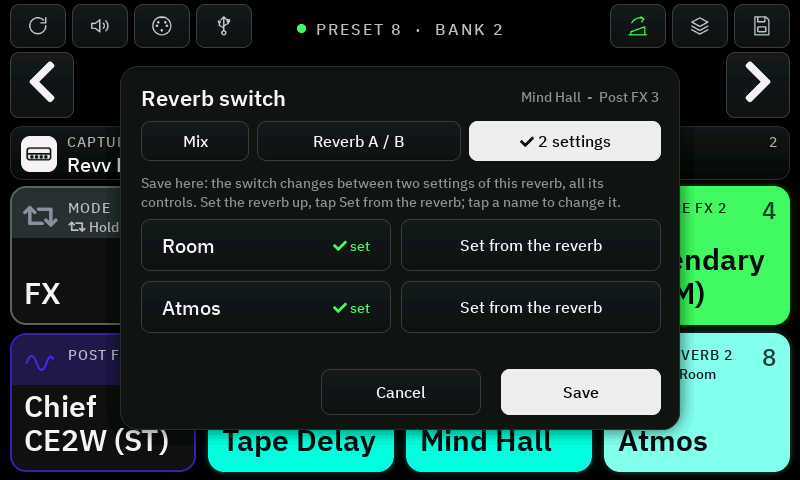
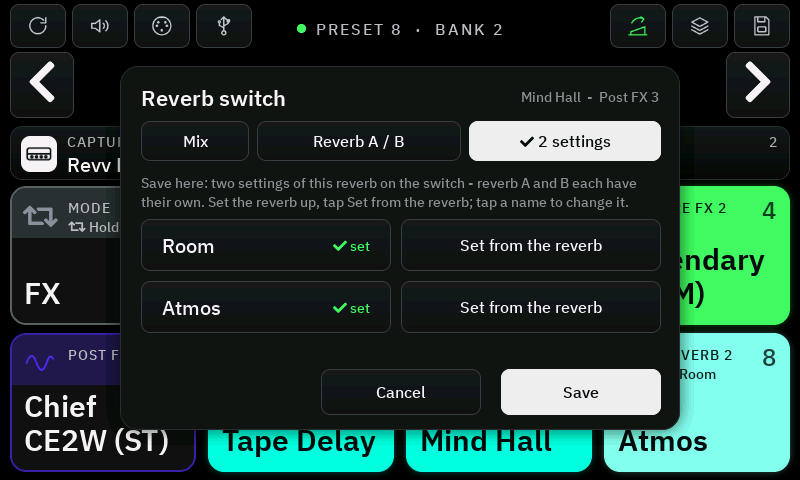
Reverb switch: each reverb of the preset (A and B) has its own two settings
The settings are kept per reverb model in two places per preset (rvp / rvq), so the second
reverb of the reverb's tile gets its own pair. Stored compactly (head + the values that are
set); the first 1.14 layout is still read.

Built, not yet run on the board.

Changed region(s): [[0.1562, 0.375, 0.8125, 0.4375]]

diff --git a/main/main.c b/main/main.c
@@ -374,7 +374,10 @@ static esp_timer_handle_t s_fxp_timer;
 // reverb - "Room" and "Atmos", every parameter - that the switch changes between. Each is what the reverb was set to
 // when "Set from the reverb" was tapped in the reverb dialog; stored on the controller, per preset. They are their
 // own thing: the second effect (A / B) of the reverb's slot is not touched and stays on the reverb's own tile.
-#define RP_STORE_KEY "rvp%02d"
+// The preset's reverb and the second one of the reverb's tile (B) each have their own two: RP_PAIRS places per
+// preset, each for one reverb model.
+#define RP_PAIRS 2
+static const char *const RP_STORE_KEYS[RP_PAIRS] = { "rvp%02d", "rvq%02d" };
 typedef struct {
     uint32_t type;                       // the reverb model the settings are for: they count while it is in the slot
     uint8_t used;                        // 1 = the reverb switch changes between them
@@ -382,11 +385,12 @@ typedef struct {
     uint8_t reserved;
     char name[2][16];
     uint16_t values[2][NANO_MAX_PARAMS]; // 0-65535 = 0-1
-} rp_t;                                  // stored in NVS as it is
-_Static_assert(sizeof(rp_t) == 40 + 4 * NANO_MAX_PARAMS, "rp_t is stored as it is: its size must not change");
-static rp_t s_rp;
+} rp_t;                                  // stored in NVS: the head as it is, then the values that are set
+#define RP_HEAD offsetof(rp_t, values)
+_Static_assert(RP_HEAD == 40 && sizeof(rp_t) == 40 + 4 * NANO_MAX_PARAMS, "rp_t's head is stored as it is: it must not change");
+static rp_t s_rp[RP_PAIRS];
 static int s_rp_preset;                  // the preset they were read for, 0 = none yet
-static int s_rp_active;                  // 0 / 1: the setting the switch went to last (after loading a preset: 0)
+static uint8_t s_rp_active[RP_PAIRS];    // 0 / 1: the setting the switch went to last (after loading a preset: 0)
 static int s_rp_capture = -1;            // the setting that waits for the reverb's values, -1 = none
 
 // USB playback volume (dB) from the Nano's settings; the slider sends at most one value per PARAM_SEND_MS.
@@ -1306,6 +1310,7 @@ static int wah_mode(int slot);
 static bool ab_used(int slot);
 static bool rp_used(void);
 static bool rp_set(int n);
+static int rp_pair(void);
 
 static void looper_switches(void)
 {
@@ -1354,10 +1359,11 @@ static void show(void)
         view.ab_mode[slot] = s_ab[slot].b.tap <= UI_AB_PRESS ? s_ab[slot].b.tap : UI_AB_HOLD;
     }
     view.rp_used = rp_used();
-    view.rp_active = (uint8_t)s_rp_active;
+    int rp = rp_pair();
+    view.rp_active = rp >= 0 ? s_rp_active[rp] : 0;
     for (int n = 0; n < 2; n++) {
         if (rp_set(n)) view.rp_set |= (uint8_t)(1u << n);
-        if (s_rp_preset == s_state.current_preset) strlcpy(view.rp_names[n], s_rp.name[n], sizeof(view.rp_names[n]));
+        if (rp >= 0) strlcpy(view.rp_names[n], s_rp[rp].name[n], sizeof(view.rp_names[n]));
     }
     for (int slot = 0; slot < NANO_FX_SLOTS && s_exp.known; slot++) {   // effects the Nano's pedal moves or switches
         if (s_exp.ranges[NANO_EXP_PRE1 + slot].on) view.exp_amount |= (uint8_t)(1u << slot);
@@ -3081,68 +3087,132 @@ static void ab_edit_b(int which)
 
 // ---- reverb switch: two settings of the reverb (see s_rp) ----
 
+// The place with the settings of the reverb that is in the slot, -1 = it has none.
+static int rp_pair(void)
+{
+    if (s_rp_preset != s_state.current_preset || s_mix.slot < 0) return -1;
+    uint32_t type = s_state.fx_type[s_mix.slot];
+    for (int p = 0; type && p < RP_PAIRS; p++) {
+        if (s_rp[p].type == type) return p;
+    }
+    return -1;
+}
+
 static bool rp_set(int n)
 {
-    return s_rp_preset == s_state.current_preset && s_mix.slot >= 0 && s_rp.type && s_rp.type == s_state.fx_type[s_mix.slot] && s_rp.count[n] > 0;
+    int p = rp_pair();
+    return p >= 0 && s_rp[p].count[n] > 0;
 }
 
 // The reverb switch changes between the two settings: chosen in the reverb dialog, and both are set for the reverb
 // that is in the slot.
 static bool rp_used(void)
 {
-    return s_rp.used && rp_set(0) && rp_set(1);
+    int p = rp_pair();
+    return p >= 0 && s_rp[p].used && s_rp[p].count[0] > 0 && s_rp[p].count[1] > 0;
 }
 
 static void rp_load(int preset)
 {
-    memset(&s_rp, 0, sizeof(s_rp));
+    memset(s_rp, 0, sizeof(s_rp));
+    memset(s_rp_active, 0, sizeof(s_rp_active));
     s_rp_preset = preset;
-    s_rp_active = 0;
     s_rp_capture = -1;
     nvs_handle_t nvs;
-    char key[16];
-    snprintf(key, sizeof(key), RP_STORE_KEY, preset);
     if (nvs_open(BANK_STORE_NAMESPACE, NVS_READONLY, &nvs) != ESP_OK) return;
-    size_t size = sizeof(s_rp);
-    if (nvs_get_blob(nvs, key, &s_rp, &size) != ESP_OK || size != sizeof(s_rp) || s_rp.count[0] > NANO_MAX_PARAMS || s_rp.count[1] > NANO_MAX_PARAMS) {
-        memset(&s_rp, 0, sizeof(s_rp));
+    for (int p = 0; p < RP_PAIRS; p++) {
+        rp_t *rp = &s_rp[p];
+        uint8_t buf[sizeof(rp_t)];
+        char key[16];
+        snprintf(key, sizeof(key), RP_STORE_KEYS[p], preset);
+        size_t size = sizeof(buf);
+        if (nvs_get_blob(nvs, key, buf, &size) != ESP_OK || size < RP_HEAD) continue;
+        memcpy(rp, buf, RP_HEAD);
+        size_t c0 = rp->count[0], c1 = rp->count[1];
+        if (!rp->type || c0 > NANO_MAX_PARAMS || c1 > NANO_MAX_PARAMS) {
+            memset(rp, 0, sizeof(*rp));
+        } else if (size == sizeof(rp_t)) {   // as the first 1.14 builds stored it: both rows in full
+            memcpy(rp, buf, sizeof(rp_t));
+        } else if (size == RP_HEAD + 2 * (c0 + c1)) {
+            memcpy(rp->values[0], buf + RP_HEAD, 2 * c0);
+            memcpy(rp->values[1], buf + RP_HEAD + 2 * c0, 2 * c1);
+        } else {
+            memset(rp, 0, sizeof(*rp));
+        }
+        rp->name[0][sizeof(rp->name[0]) - 1] = rp->name[1][sizeof(rp->name[1]) - 1] = 0;
+        if (rp->type) {
+            ESP_LOGI(TAG, "Reverb settings of preset %d for %s: \"%s\" / \"%s\"%s", preset, nano_fx_name(rp->type), rp->name[0], rp->name[1],
+                     rp->used ? " (on the reverb switch)" : "");
+        }
     }
-    s_rp.name[0][sizeof(s_rp.name[0]) - 1] = s_rp.name[1][sizeof(s_rp.name[1]) - 1] = 0;
     nvs_close(nvs);
-    if (s_rp.type) ESP_LOGI(TAG, "Reverb settings of preset %d: \"%s\" / \"%s\"%s", preset, s_rp.name[0], s_rp.name[1], s_rp.used ? " (on the reverb switch)" : "");
 }
 
-static void rp_store(void)
+static void rp_store(int p)
 {
+    const rp_t *rp = &s_rp[p];
     nvs_handle_t nvs;
     char key[16];
-    snprintf(key, sizeof(key), RP_STORE_KEY, s_rp_preset);
+    uint8_t buf[sizeof(rp_t)];
+    snprintf(key, sizeof(key), RP_STORE_KEYS[p], s_rp_preset);
     if (!s_rp_preset || nvs_open(BANK_STORE_NAMESPACE, NVS_READWRITE, &nvs) != ESP_OK) return;
-    bool empty = !s_rp.count[0] && !s_rp.count[1];
-    esp_err_t err = empty ? nvs_erase_key(nvs, key) : nvs_set_blob(nvs, key, &s_rp, sizeof(s_rp));
+    size_t c0 = rp->count[0], c1 = rp->count[1];
+    memcpy(buf, rp, RP_HEAD);
+    memcpy(buf + RP_HEAD, rp->values[0], 2 * c0);
+    memcpy(buf + RP_HEAD + 2 * c0, rp->values[1], 2 * c1);
+    esp_err_t err = !c0 && !c1 ? nvs_erase_key(nvs, key) : nvs_set_blob(nvs, key, buf, RP_HEAD + 2 * (c0 + c1));
     if ((err != ESP_OK && err != ESP_ERR_NVS_NOT_FOUND) || nvs_commit(nvs) != ESP_OK) ui_show_message("Could not store the reverb settings (memory full?).");
     nvs_close(nvs);
+}
+
+// The place for the settings of the reverb in the slot. A new one takes an empty place, or that of a reverb this
+// preset has no more (neither its own nor the second one of the reverb's tile).
+static int rp_pair_make(void)
+{
+    int slot = s_mix.slot;
+    if (slot < 0 || !s_state.fx_type[slot]) return -1;
+    if (s_rp_preset != s_state.current_preset) rp_load(s_state.current_preset);
+    int p = rp_pair();
+    if (p >= 0) return p;
+    const ab_t *ab = &s_ab[slot];
+    bool ab_known = ab->preset == s_state.current_preset;
+    for (int i = 0; i < RP_PAIRS && p < 0; i++) {
+        if (!s_rp[i].type) p = i;
+    }
+    for (int i = 0; i < RP_PAIRS && p < 0; i++) {
+        if (!ab_known || (s_rp[i].type != ab->a_type && s_rp[i].type != ab->b.type)) p = i;
+    }
+    if (p < 0) p = 0;
+    bool used = false;   // what the switch does is the preset's: the new place takes it over
+    for (int i = 0; i < RP_PAIRS; i++) used |= i != p && s_rp[i].type && s_rp[i].used;
+    memset(&s_rp[p], 0, sizeof(s_rp[p]));
+    s_rp[p].type = s_state.fx_type[slot];
+    s_rp[p].used = used;
+    s_rp_active[p] = 0;
+    return p;
 }
 
 // The reverb switch: the other setting - all its values go out, the reverb comes on if it was off.
 static void rp_toggle(void)
 {
     int slot = s_mix.slot;
+    int p = rp_pair();
     if (!rp_used()) return;
+    const rp_t *rp = &s_rp[p];
     const ab_t *running = ab_running();
     if ((running && !running->cache_only) || (fxp_sending() && s_fxp.send_slot != slot)) {
         ui_show_message("Still switching - try again in a moment.");
         return;
     }
     if (!s_state.fx_on[slot]) toggle_fx(slot);
-    int next = s_rp_active == 1 ? 0 : 1;
+    int next = s_rp_active[p] == 1 ? 0 : 1;
     esp_timer_stop(s_fxp_timer);
     s_fxp.send_slot = slot;
-    s_fxp.send_count = s_rp.count[next];
+    s_fxp.send_count = rp->count[next];
     s_fxp.sent = 0;
-    for (int i = 0; i < s_rp.count[next]; i++) s_fxp.send_values[i] = s_rp.values[next][i] / 65535.0f;
-    s_rp_active = next;
-    ESP_LOGI(TAG, "Reverb setting %d \"%s\" (%d values)", next + 1, s_rp.name[next], s_rp.count[next]);
+    for (int i = 0; i < rp->count[next]; i++) s_fxp.send_values[i] = rp->values[next][i] / 65535.0f;
+    s_rp_active[p] = (uint8_t)next;
+    ESP_LOGI(TAG, "Reverb setting %d \"%s\" (%s, %d values)", next + 1, rp->name[next], nano_fx_name(rp->type), rp->count[next]);
     fxp_send_step();
     app_sync_later();
     show();
@@ -3181,21 +3251,17 @@ static void rp_values(int slot, const float *values, int count)
         ui_show_message("Not set: the Nano sent no values - tap again.");
         return;
     }
-    if (s_rp_preset != s_state.current_preset) rp_load(s_state.current_preset);
-    if (s_rp.type != s_state.fx_type[slot]) {   // another reverb than the stored settings are for: they start afresh
-        bool used = s_rp.used;
-        memset(&s_rp, 0, sizeof(s_rp));
-        s_rp.used = used;
-        s_rp.type = s_state.fx_type[slot];
-    }
-    s_rp.count[n] = (uint8_t)count;
-    for (int i = 0; i < count; i++) s_rp.values[n][i] = value_u16(values[i]);
-    if (!s_rp.name[n][0]) strlcpy(s_rp.name[n], n ? "Setting 2" : "Setting 1", sizeof(s_rp.name[n]));
-    rp_store();
-    s_rp_active = n;
-    ESP_LOGI(TAG, "Reverb setting %d \"%s\": %d values of %s kept", n + 1, s_rp.name[n], count, nano_fx_name(s_rp.type));
+    int p = rp_pair_make();
+    if (p < 0) return;
+    rp_t *rp = &s_rp[p];
+    rp->count[n] = (uint8_t)count;
+    for (int i = 0; i < count; i++) rp->values[n][i] = value_u16(values[i]);
+    if (!rp->name[n][0]) strlcpy(rp->name[n], n ? "Setting 2" : "Setting 1", sizeof(rp->name[n]));
+    rp_store(p);
+    s_rp_active[p] = (uint8_t)n;
+    ESP_LOGI(TAG, "Reverb setting %d \"%s\": %d values of %s kept", n + 1, rp->name[n], count, nano_fx_name(rp->type));
     char text[64];
-    snprintf(text, sizeof(text), "\"%s\" set from the reverb.", s_rp.name[n]);
+    snprintf(text, sizeof(text), "\"%s\" set from the reverb.", rp->name[n]);
     ui_show_message(text);
     show();
 }
@@ -3205,22 +3271,30 @@ static void rp_name(const char *text)
 {
     int n = text[0] - '1';
     if (n < 0 || n > 1) return;
-    if (s_rp_preset != s_state.current_preset) rp_load(s_state.current_preset);
+    int p = rp_pair_make();
+    if (p < 0) return;
+    rp_t *rp = &s_rp[p];
     const char *name = text + 1;
     while (*name == ' ') name++;
-    if (*name) strlcpy(s_rp.name[n], name, sizeof(s_rp.name[n]));
-    else strlcpy(s_rp.name[n], n ? "Setting 2" : "Setting 1", sizeof(s_rp.name[n]));
-    if (s_rp.count[0] || s_rp.count[1]) rp_store();   // (a name alone is kept once a setting exists)
+    if (*name) strlcpy(rp->name[n], name, sizeof(rp->name[n]));
+    else strlcpy(rp->name[n], n ? "Setting 2" : "Setting 1", sizeof(rp->name[n]));
+    if (rp->count[0] || rp->count[1]) rp_store(p);   // (a name alone is kept once a setting exists)
     show();
 }
 
 // Reverb dialog saved: the switch changes between the two settings (or not: the tab in front was another one).
+// What the switch does is the preset's, so it goes for both of its reverbs.
 static void rp_use(bool use)
 {
     if (s_rp_preset != s_state.current_preset) rp_load(s_state.current_preset);
-    if ((s_rp.used != 0) == use) return;
-    s_rp.used = use;
-    rp_store();
+    bool changed = false;
+    for (int p = 0; p < RP_PAIRS; p++) {
+        if (!s_rp[p].type || (s_rp[p].used != 0) == use) continue;
+        s_rp[p].used = use;
+        rp_store(p);
+        changed = true;
+    }
+    if (!changed) return;
     ESP_LOGI(TAG, "Reverb switch: %s", use ? "the two settings" : "not the two settings");
     show();
 }
@@ -3770,10 +3844,11 @@ static void handle_command(char c, int arg)
         if (arg == 1 || arg == 2) rp_capture(arg - 1);
         else if (arg == 16 || arg == 17) rp_use(arg == 17);
 #ifdef NANO_RPTEST
-        else if (arg == 32 && s_rp_preset == s_state.current_preset) {   // forget both settings of this preset
-            memset(&s_rp, 0, sizeof(s_rp));
-            rp_store();
-            ESP_LOGI(TAG, "Reverb settings of preset %d removed", s_rp_preset);
+        else if (arg == 32 && rp_pair() >= 0) {   // forget both settings of the reverb in the slot
+            int p = rp_pair();
+            memset(&s_rp[p], 0, sizeof(s_rp[p]));
+            rp_store(p);
+            ESP_LOGI(TAG, "Reverb settings of preset %d removed (place %d)", s_rp_preset, p + 1);
             show();
         }
 #endif
@@ -4772,6 +4847,10 @@ static void console_task(void *arg)
 #ifdef NANO_RPTEST
         if (c == '_' || c == '+' || c == '=' || c == '\\') {   // reverb settings: set 1 / set 2 / on the switch / forget
             command('-', c == '_' ? 1 : c == '+' ? 2 : c == '=' ? 17 : 32);
+            continue;
+        }
+        if (c == '|' && s_mix.slot >= 0) {   // the reverb's own A / B, as its tile swaps it
+            command('[', s_mix.slot);
             continue;
         }
 #endif

diff --git a/main/ui.c b/main/ui.c
@@ -2193,8 +2193,8 @@ static void build_mix_editor(lv_obj_t *screen)
     lv_obj_t *two_info = label(two, &ui_font_14, MUTED);
     lv_obj_set_width(two_info, 520);
     lv_label_set_long_mode(two_info, LV_LABEL_LONG_WRAP);
-    lv_label_set_text(two_info, "Save here: the switch changes between two settings of this reverb, all its controls. "
-                                "Set the reverb up, tap Set from the reverb; tap a name to change it.");
+    lv_label_set_text(two_info, "Save here: two settings of this reverb on the switch - reverb A and B each have "
+                                "their own. Set the reverb up, tap Set from the reverb; tap a name to change it.");
     lv_obj_set_pos(two_info, 20, 0);
     for (int n = 0; n < 2; n++) {
         int y = 46 + n * 62;

diff --git a/docs/manual.de.md b/docs/manual.de.md
@@ -279,8 +279,12 @@ vorne ist, bestimmt, was der Schalter ab dann tut**; der gerade verwendete träg
   Reverb auch ein, falls es aus war.
   Die zwei Einstellungen speichert der Controller, pro Preset, und sie sind **etwas Eigenes**: Mit dem A und B der
   Reverb-Kachel selbst (Kachel 7) haben sie nichts zu tun – die behält ihren zweiten Effekt und ihr Tippen oder
-  Halten wie bisher. Sie gehören zu dem Reverb-Modell, von dem sie genommen wurden. Solange ein anderes Reverb im
-  Slot ist, fällt der Schalter auf Reverb A / B oder den Mix zurück, und die Kachel zeigt das. Nach dem Laden eines
+  Halten wie bisher.
+  **Jedes Reverb des Presets hat seine eigenen zwei Einstellungen**: das Reverb des Presets (A) und, falls die
+  Reverb-Kachel ein zweites Reverb (B) hat, auch dieses. Auf der Reverb-Kachel zu B wechseln, dieses Fenster öffnen
+  und seine zwei genauso einrichten – oben rechts steht, welches Reverb gerade im Slot ist. Ab dann wechselt
+  Fußschalter 8 zwischen den zwei Einstellungen des Reverbs, das gerade an ist. Bei einem Reverb ohne eigene
+  Einstellungen bleibt der Schalter bei Reverb A / B oder dem Mix, und die Kachel zeigt das. Nach dem Laden eines
   Presets zeigt die Kachel Einstellung 1 – das Preset am besten mit Einstellung 1 auf dem Nano speichern.
 
 ## Zweiter Effekt: A und B auf einem FX-Slot

diff --git a/docs/manual.md b/docs/manual.md
@@ -263,9 +263,12 @@ switch does** from then on; the one in use carries a tick.
   setting 2 on the tile is a lighter shade. A press also switches the reverb on if it was off.
   The two settings are stored on the controller, per preset, and are **their own thing**: they have nothing to do
   with the A and B of the reverb's own tile (tile 7), which keeps its second effect and its tap or hold as before.
-  They belong to the reverb model they were set from. While another reverb is in the slot the switch falls back to
-  reverb A / B or the mix, and the tile shows that. After a preset is loaded the tile shows setting 1 – best store
-  the preset on the Nano with setting 1 on.
+  **Each reverb of the preset has its own two settings**: the preset's reverb (A) and, if the reverb's tile has a
+  second reverb (B), that one too. Switch to B on the reverb's tile, open this dialog and set its two up the same
+  way – the header shows which reverb is in the slot. From then on footswitch 8 changes between the two settings of
+  whichever reverb is on. A reverb without settings of its own leaves the switch at reverb A / B or the mix, and
+  the tile shows that. After a preset is loaded the tile shows setting 1 – best store the preset on the Nano with
+  setting 1 on.
 
 ## Second effect: A and B on an FX slot
 
